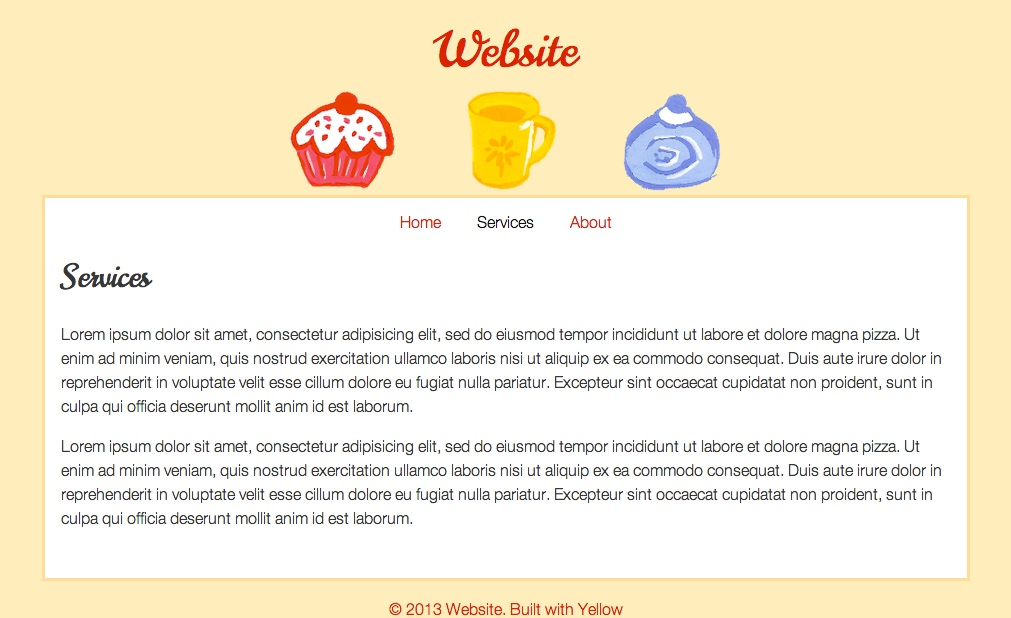
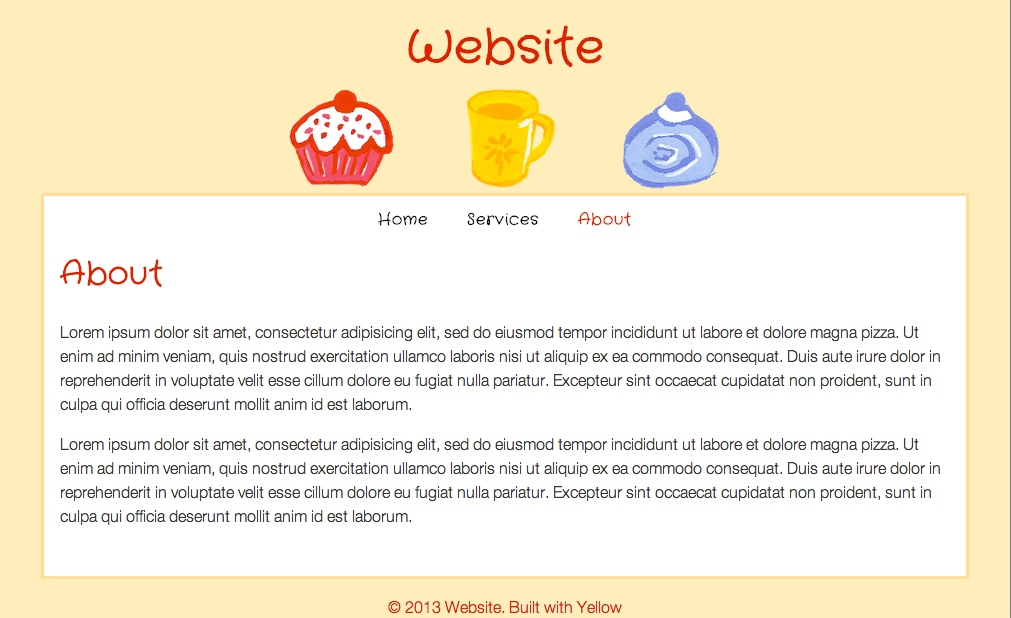
Hello themes (responsive web update)

diff --git a/themes/coffeecream/coffeecream.css b/themes/coffeecream/coffeecream.css
@@ -1,6 +1,6 @@
-/* Yellow coffeecream style 0.1.1 */
+/* Yellow coffeecream style 0.1.2 */
 
-@import url(http://fonts.googleapis.com/css?family=Norican);
+@import url(http://fonts.googleapis.com/css?family=Crafty+Girls);
 html, body, div, span { margin:0; padding:0; border:0; vertical-align:baseline; }
 body {
 	margin:1em 2em;
@@ -11,15 +11,14 @@ body {
 	line-height:1.5; 
 }
 h1, h2, h3, h4, h5, h6 { 
-	font-family:Norican,Helvetica,sans-serif; 
-	font-weight:400; 
+	font-family:Crafty Girls,Helvetica,sans-serif;
+	font-weight:bold;
 }
 hr { height:1px; background:#fda; border:0; }
 code { font-size:1.1em; }
 a, img { border:none; text-decoration:none; }
 a { color:#d20; }
 a:hover { color:#373737; }
-.page { margin:0 auto; max-width:1000px; background-color:#feb; }
 .header h1 { margin:0; font-size:3em; text-align:center; }
 .header a { color:#d20; }
 .header-banner { 
@@ -28,20 +27,27 @@ a:hover { color:#373737; }
 	background-image:url(coffeecream.png); 
 	background-repeat:no-repeat; 
 	background-size:cover; 
-	background-position:center; 
+	background-position:center;
 }
 .navigation { padding:0.5em 1em; background-color:#fff; border:3px solid #fd9; border-bottom-width:0; line-height:2em; }
-.navigation a { color:#d20; padding:0 1em; display:inline-block; }
+.navigation a { color:#111; padding:0 1em; display:inline-block; }
 .navigation a:hover { color:#fff; background-color:#d20; }
-.navigation li a.active { color:#111; }
+.navigation li a.active { color:#d20; }
 .navigation li a.active:hover { color:#fff; }
 .navigation li { display:inline; }
 .navigation ul { margin:0; padding:0; list-style:none; text-align:center; }
+.navigation ul { 
+	font-family:Crafty Girls,Helvetica,sans-serif; 
+	font-weight:bold; 
+}
 .content { margin-top:-1em; padding:2em 1em; padding-top:1px; background-color:#fff; color:#373737; }
 .content { border:3px solid #fd9; border-top-width:0; }
 .content a { color:#d20; }
 .content a:hover { color:#d20; text-decoration:underline; }
+.content h1, h2, h3, h4, h5, h6 { color:#d20; }
 .content img { max-width:100%; height:auto; }
+.content .flexible { position:relative; padding-bottom:56.25%; padding-top:30px; }
+.content .flexible iframe { position:absolute; top:0; left:0; width:100%; height:100%; }
 .footer { padding:1em; text-align:center; }
 .left { float:left; margin:0 1em 0 0; }
 .center { display:block; margin:0 auto; }
@@ -49,8 +55,11 @@ a:hover { color:#373737; }
 
 /* Responsive and print */
 
+.page { margin:0 auto; max-width:1000px; }
+
 @media screen and (min-width:62em) {
 	body { width:58em; margin:1em auto; }
+	.page{ margin:0; max-width:none; }
 }
 @media screen and (max-width:30em) {
 	body { margin:0.5em; font-size:0.9em; }

diff --git a/themes/blogsite/blogsite.css b/themes/blogsite/blogsite.css
@@ -1,4 +1,4 @@
-/* Yellow blogsite style 0.1.1 */
+/* Yellow blogsite style 0.1.2 */
 
 html, body, div, span { margin:0; padding:0; border:0; vertical-align:baseline; }
 body {
@@ -16,7 +16,6 @@ code { font-size:1.1em; }
 a, img { border:none; text-decoration:none; }
 a { color:#373737; }
 a:hover { color:#07d; }
-.page { margin:0 auto; max-width:1000px; background-color:#fff; }
 .header { padding:0.5em 1.5em; }
 .header h1 { margin:0.4em 0; font-size:2.2em; } 
 .header a { color:#111; }
@@ -38,6 +37,8 @@ a:hover { color:#07d; }
 .content a { color:#07d; }
 .content a:hover { color:#07d; text-decoration:underline; }
 .content img { max-width:100%; height:auto; }
+.content .flexible { position:relative; padding-bottom:56.25%; padding-top:30px; }
+.content .flexible iframe { position:absolute; top:0; left:0; width:100%; height:100%; }
 .footer { margin:0 1.5em; padding:0.5em 0em; border-top:1px solid #ddd; }
 .left { float:left; margin:0 1em 0 0; }
 .center { display:block; margin:0 auto; }
@@ -46,9 +47,11 @@ a:hover { color:#07d; }
 
 /* Responsive and print */
 
+.page { margin:0 auto; max-width:1000px; }
+
 @media screen and (min-width:62em) {
 	body { background-color:#e1e1e1; width:62em; margin:1em auto; }
-	.page { margin:0; max-width:62em; border:1px solid #bbb; }
+	.page { background-color:#fff; margin:0; max-width:62em; border:1px solid #bbb; }
 	.page { border-radius:4px; box-shadow:0 0 10px rgba(0, 0, 0, 0.2); }
 }
 @media screen and (max-width:30em) {
